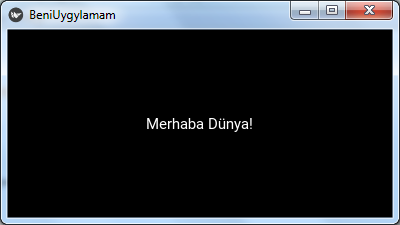
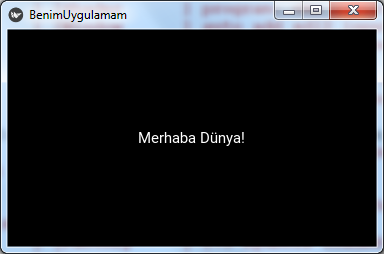
Initial commit

Changed region(s): [[0.0, 0.0, 1.0, 1.0], [0.3438, 0.4978, 0.6562, 0.5911]]

diff --git a/docs/programlar/merhaba_dunya.py b/docs/programlar/merhaba_dunya.py
@@ -3,10 +3,10 @@ import kivy
 from kivy.app import App
 from kivy.uix.label import Label
 
-class BeniUygylamam(App):
+class BenimUygulamam(App):
 
     def build(self):
         return Label(text='Merhaba Dünya!')
 
 
-BeniUygylamam().run()
+BenimUygulamam().run()

diff --git a/docs/merhaba-dunya.rst b/docs/merhaba-dunya.rst
@@ -20,4 +20,4 @@ Programı çalıştırdığınızda aşağıdaki gibi bir pencere açılacaktır
 
    ``merhaba_dunya.py`` programının ekran görüntüsü
 
-hhh
+
